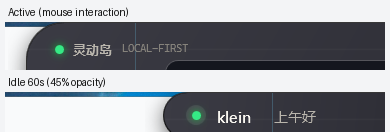
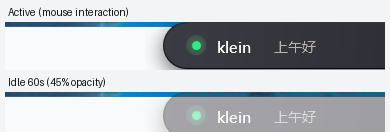
fix(ui): remove background grid lines

diff --git a/src/DynamicIsland.App/Views/IslandWindow.xaml b/src/DynamicIsland.App/Views/IslandWindow.xaml
@@ -63,14 +63,6 @@
             </Border.ContextMenu>
 
             <Grid x:Name="ContentRoot">
-                <Rectangle Fill="{DynamicResource IslandGridBrush}"
-                           IsHitTestVisible="False" />
-                <Rectangle Width="1"
-                           HorizontalAlignment="Left"
-                           Margin="86,0,0,0"
-                           Fill="{DynamicResource IslandAccentLineBrush}"
-                           IsHitTestVisible="False" />
-
                 <!-- Compact -->
                 <Grid x:Name="CompactView"
                       Margin="18,0"

diff --git a/README.md b/README.md
@@ -1,6 +1,6 @@
 # 灵动岛 · Dynamic Island for Windows 11
 
-![version](https://img.shields.io/badge/version-0.9.1-6FE7C8)
+![version](https://img.shields.io/badge/version-0.9.2-6FE7C8)
 ![platform](https://img.shields.io/badge/platform-Windows%2011-0078D4)
 ![.NET](https://img.shields.io/badge/.NET-10-512BD4)
 ![license](https://img.shields.io/badge/license-MIT-blue)
@@ -9,15 +9,15 @@
 
 ![灵动岛](docs/images/hero.png)
 
-**当前版本 `v0.9.1`**（首个公开版本为 `v0.1.0`）。包含五个功能区、深/浅色双主题、会议倒计时，以及接入本机 Ollama / OpenAI-compatible 模型的翻译与 AI Agent。AI Agent 支持上传图片、文本/代码、Word/Excel/PPT 文件进行分析；窗口闲置 1 分钟后自动变为半透明，鼠标交互后恢复不透明。日历支持 Microsoft 365 发布 ICS，也保留桌面版 Outlook COM 回退。
+**当前版本 `v0.9.2`**（首个公开版本为 `v0.1.0`）。包含五个功能区、深/浅色双主题、会议倒计时，以及接入本机 Ollama / OpenAI-compatible 模型的翻译与 AI Agent。AI Agent 支持上传图片、文本/代码、Word/Excel/PPT 文件进行分析；窗口闲置 1 分钟后自动变为半透明，鼠标交互后恢复不透明。日历支持 Microsoft 365 发布 ICS，也保留桌面版 Outlook COM 回退。
 
 仓库：[github.com/KleinF-02/windows-DynamicIsland](https://github.com/KleinF-02/windows-DynamicIsland) · 发布页：[Releases](https://github.com/KleinF-02/windows-DynamicIsland/releases)
 
-**文档导航：** [软件设计思路](docs/design.md) · [fly-island UI 适配说明](docs/fly-island-ui.md) · [框架与技术选型](docs/frameworks.md) · [使用说明](docs/usage.md) · [架构](docs/architecture.md) · [版本管理](docs/versioning.md) · [v0.9.1 更新记录](docs/releases/v0.9.1.md) · [变更日志](CHANGELOG.md) · [第三方许可](THIRD_PARTY_NOTICES.md) · [开发说明](docs/development.md)
+**文档导航：** [软件设计思路](docs/design.md) · [fly-island UI 适配说明](docs/fly-island-ui.md) · [框架与技术选型](docs/frameworks.md) · [使用说明](docs/usage.md) · [架构](docs/architecture.md) · [版本管理](docs/versioning.md) · [v0.9.2 更新记录](docs/releases/v0.9.2.md) · [变更日志](CHANGELOG.md) · [第三方许可](THIRD_PARTY_NOTICES.md) · [开发说明](docs/development.md)
 
 ## 快速开始
 
-1. 从 [GitHub Releases](https://github.com/KleinF-02/windows-DynamicIsland/releases) 下载 `DynamicIsland-0.9.1-win-x64.zip`。
+1. 从 [GitHub Releases](https://github.com/KleinF-02/windows-DynamicIsland/releases) 下载 `DynamicIsland-0.9.2-win-x64.zip`。
 2. 解压后运行 `DynamicIsland.exe`。
 3. 鼠标移到顶部胶囊展开；点击底部圆点切换功能。
 4. 需要固定时点右下角“固定窗口”；右键托盘图标打开设置。
@@ -43,7 +43,7 @@
 - **待办事项**：在标签直接输入或修改，打勾后粒子散开、整行淡出并从列表删除；待办持久化到本机
 - **翻译**：第四个圆点；输入文字后调用本机 Ollama / LM Studio / llama.cpp 大模型，支持切换目标语言、Ctrl+Enter 翻译、复制结果；光标在功能区时保持展开，移出后按原有悬浮规则收起，翻译内容保留到下次展开
 - **AI Agent**：第五个圆点；多轮对话、保留上下文、粘贴/复制/清空，支持上传图片、文本/代码和 Word/Excel/PPT 文件交给本地视觉/语言模型分析；聊天记录只显示文件名，图片以多模态输入发送，文本正文只进入本次模型请求；激活时放大为工作区，并和翻译共用同一套悬停策略
-- **fly-island 风格 UI**：四角全圆角胶囊、深色半透明表面、网格纹理、青色/绿色强调色与彩色功能圆点
+- **fly-island 风格 UI**：四角全圆角胶囊、深色半透明表面、青色/绿色强调色与彩色功能圆点
 - **闲置半透明**：60 秒没有鼠标/键盘交互后窗口平滑变为 45% 不透明度；鼠标进入、移动、点击、滚轮或键盘输入后恢复
 - 通知胶囊：标题 + 正文 + 自动消失 / 点击关闭（当前由托盘和右键菜单触发演示）
 - 深色 / 浅色两套主题，自动跟随 Windows“应用模式”实时切换
@@ -164,8 +164,8 @@ powershell -NoProfile -ExecutionPolicy Bypass -File .\scripts\publish.ps1
 默认产出 **win-x64、self-contained、single-file**：
 
 ```text
-artifacts/publish/DynamicIsland-0.9.1-win-x64/DynamicIsland.exe
-artifacts/publish/DynamicIsland-0.9.1-win-x64.zip
+artifacts/publish/DynamicIsland-0.9.2-win-x64/DynamicIsland.exe
+artifacts/publish/DynamicIsland-0.9.2-win-x64.zip
 ```
 
 目标机器不需要安装 .NET。ARM64：
@@ -294,7 +294,7 @@ dynamic-island/
 
 ## 版本
 
-当前版本 `0.9.1`。版本号在 [`VERSION`](VERSION) 中维护；每次用户可见迭代都会递增版本号并创建新标签，历史标签与 Release 保持不删不改。历史检查点见 [版本管理](docs/versioning.md)，发布包通过 GitHub Releases 分发。
+当前版本 `0.9.2`。版本号在 [`VERSION`](VERSION) 中维护；每次用户可见迭代都会递增版本号并创建新标签，历史标签与 Release 保持不删不改。历史检查点见 [版本管理](docs/versioning.md)，发布包通过 GitHub Releases 分发。
 
 ## License
 

diff --git a/docs/releases/v0.9.2.md b/docs/releases/v0.9.2.md
@@ -1,0 +1,45 @@
+# v0.9.2 更新记录
+
+发布日期：2026-11-06
+
+## 调整
+
+- 去掉主体背景上的横向网格装饰线
+- 去掉左侧竖向强调装饰线
+- 背景恢复为干净的深色/浅色表面渐变
+
+## 保持不变
+
+- 四角全圆角胶囊轮廓
+- fly-island 风格配色、顶部高光、彩色功能圆点和脉冲
+- 560ms `cubic-bezier(0.16, 1, 0.3, 1)` 过渡
+- 内容淡入、动态模糊、闲置半透明和所有功能
+
+![干净背景](../images/fly-compact.png)
+
+## 验证
+
+- Compact / Expanded 背景均无横竖装饰线
+- 构建 0 警告 0 错误，测试 11/11 通过
+
+## 下载
+
+- [DynamicIsland-0.9.2-win-x64.zip](https://github.com/KleinF-02/windows-DynamicIsland/releases/download/v0.9.2/DynamicIsland-0.9.2-win-x64.zip)
+- [GitHub Release](https://github.com/KleinF-02/windows-DynamicIsland/releases/tag/v0.9.2)
+
+历史版本：
+
+- [v0.9.1](https://github.com/KleinF-02/windows-DynamicIsland/releases/tag/v0.9.1)
+- [v0.9.0](https://github.com/KleinF-02/windows-DynamicIsland/releases/tag/v0.9.0)
+- [v0.8.0](https://github.com/KleinF-02/windows-DynamicIsland/releases/tag/v0.8.0)
+- [v0.7.0](https://github.com/KleinF-02/windows-DynamicIsland/releases/tag/v0.7.0)
+- [v0.6.0](https://github.com/KleinF-02/windows-DynamicIsland/releases/tag/v0.6.0)
+- [v0.5.1](https://github.com/KleinF-02/windows-DynamicIsland/releases/tag/v0.5.1)
+- [v0.5.0](https://github.com/KleinF-02/windows-DynamicIsland/releases/tag/v0.5.0)
+- [v0.4.0](https://github.com/KleinF-02/windows-DynamicIsland/releases/tag/v0.4.0)
+- [v0.3.0](https://github.com/KleinF-02/windows-DynamicIsland/releases/tag/v0.3.0)
+- [v0.2.1](https://github.com/KleinF-02/windows-DynamicIsland/releases/tag/v0.2.1)
+- [v0.2.0](https://github.com/KleinF-02/windows-DynamicIsland/releases/tag/v0.2.0)
+- [v0.1.0](https://github.com/KleinF-02/windows-DynamicIsland/releases/tag/v0.1.0)
+
+完整变更见 [CHANGELOG.md](../../CHANGELOG.md) 和 [版本管理](../versioning.md)。

diff --git a/docs/fly-island-ui.md b/docs/fly-island-ui.md
@@ -32,7 +32,7 @@ fly-island 是 **Tauri 2 + React 19 + TypeScript + Vite** 应用，不是 WPF：
 | 顶部贴屏、底部圆角 | 本项目最终改为四角全圆角胶囊：Compact `19`，Workspace `26`，Expanded `30` |
 | 紧凑态 38px 高、宽 340 | `IslandMetrics` Compact `340 × 38` |
 | 展开态 560px 宽 | `IslandMetrics` Expanded `560 × 306` |
-| `#2F2F37` 深色表面、顶部高光、网格线 | 深色调色板 + `IslandGridBrush` + 垂直强调线 |
+| `#2F2F37` 深色表面、顶部高光 | 深色调色板 + 顶部高光渐变；不绘制背景横竖装饰线 |
 | 青色强调色、绿色 Agent 脉冲、彩色标签点 | `#74D6FF`、`PulseBrush`、五色 `DotTabButton` |
 | `cubic-bezier(0.16, 1, 0.3, 1)` | `CubicBezierEasingFunction` |
 | 尺寸/圆角过渡 560ms | 窗口宽高/圆角 560ms |

diff --git a/CHANGELOG.md b/CHANGELOG.md
@@ -10,6 +10,14 @@
 - AI Agent 的安全工具调用（白名单 + 用户确认）
 - 多显示器选择与按显示器记忆位置
 
+## [0.9.2] - 2026-11-06
+
+### Changed
+
+- 移除主体背景上的横向网格装饰线
+- 移除左侧竖向强调装饰线
+- 保留深色/浅色表面渐变、胶囊轮廓、彩色圆点、脉冲和全部过渡动画
+
 ## [0.9.1] - 2026-11-06
 
 ### Changed

diff --git a/docs/usage.md b/docs/usage.md
@@ -4,7 +4,7 @@
 
 ### 直接使用发布包
 
-1. 从 GitHub Releases 下载 `DynamicIsland-0.9.1-win-x64.zip`。
+1. 从 GitHub Releases 下载 `DynamicIsland-0.9.2-win-x64.zip`。
 2. 解压到任意目录。
 3. 双击 `DynamicIsland.exe`。
 4. 首次运行会在桌面顶部出现胶囊，并在系统托盘创建图标。
